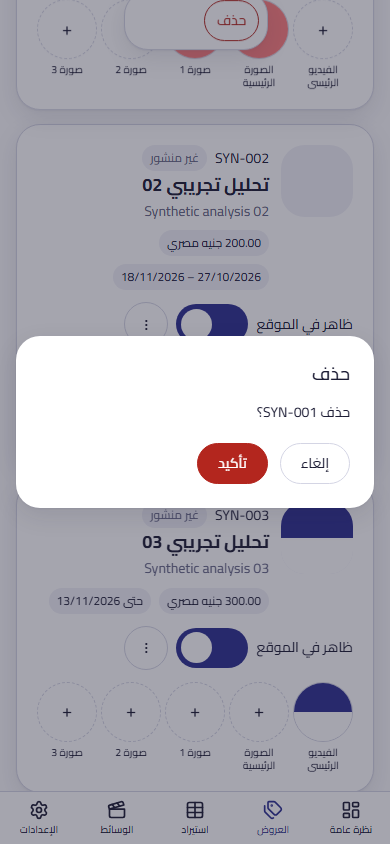
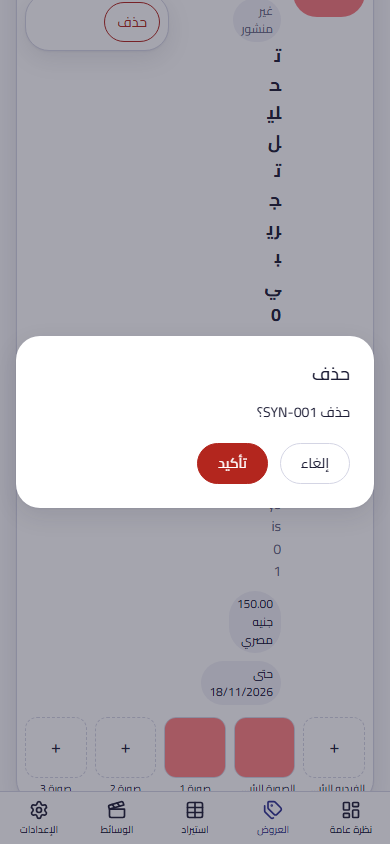
T06-F: square tiles, touch controls, header alignment and evidence

diff --git a/src/components/campaign-offer-list.tsx b/src/components/campaign-offer-list.tsx
@@ -221,7 +221,7 @@ export function CampaignOfferList({
               className="nel-leave"
             >
               <div
-                className={`nel-leave-inner ${cardClass} flex min-w-0 flex-col gap-3 border border-border p-3 motion-safe:transition-transform motion-safe:hover:-translate-y-0.5 sm:p-5`}
+                className={`nel-leave-inner ${cardClass} flex min-w-0 flex-col gap-3 border border-border !p-2 motion-safe:transition-transform motion-safe:hover:-translate-y-0.5 sm:!p-5`}
               >
                 <div className="flex min-w-0 flex-wrap items-start gap-3">
                   <div className="flex size-[4.5rem] shrink-0 items-center justify-center overflow-hidden rounded-card bg-primary-soft md:size-24">
@@ -315,7 +315,7 @@ export function CampaignOfferList({
                     </div>
                   </div>
                 </div>
-                <ul className="grid min-w-0 grid-cols-5 gap-1">
+                <ul className="grid min-w-0 grid-cols-[repeat(5,minmax(0,5.5rem))] justify-start gap-2">
                   {slotOrder.map((slot) => {
                     const picture = row.pictures.find((entry) => entry.slot === slot) ?? null;
                     const present = picture !== null;
@@ -330,21 +330,23 @@ export function CampaignOfferList({
                       >
                         <div className="nel-leave-inner flex min-w-0 flex-col gap-1">
                           {present ? (
-                            <div data-tile className="nel-tile relative aspect-square overflow-hidden rounded-button border border-border">
-                              {picture?.video && picture.previewUrl ? (
-                                <video
-                                  className="nel-arrive size-full object-cover"
-                                  src={`${picture.previewUrl}#t=0.1`}
-                                  muted
-                                  playsInline
-                                  preload="metadata"
-                                />
-                              ) : (
-                                // eslint-disable-next-line @next/next/no-img-element
-                                <img src={picture?.previewUrl} alt="" className="nel-arrive size-full object-cover" />
-                              )}
+                            <div className="nel-tile relative">
+                              <div data-tile className="aspect-square overflow-hidden rounded-xl border border-border">
+                                {picture?.video && picture.previewUrl ? (
+                                  <video
+                                    className="nel-arrive size-full object-cover"
+                                    src={`${picture.previewUrl}#t=0.1`}
+                                    muted
+                                    playsInline
+                                    preload="metadata"
+                                  />
+                                ) : (
+                                  // eslint-disable-next-line @next/next/no-img-element
+                                  <img src={picture?.previewUrl} alt="" className="nel-arrive size-full object-cover" />
+                                )}
+                              </div>
                               <div className="nel-tile-actions absolute inset-0 flex flex-col items-center justify-center gap-1 bg-dark/70 p-0.5">
-                                <a className={`text-center text-[0.65rem] font-bold text-surface ${focusRing}`} href={href}>
+                                <a className={`text-center text-[0.65rem] font-bold text-primary ${focusRing}`} href={href}>
                                   {messages.operator.slotReplace}
                                 </a>
                                 <button
@@ -367,12 +369,12 @@ export function CampaignOfferList({
                               data-tile
                               href={href}
                               aria-label={messages.operator.slotAdd}
-                              className={`flex aspect-square items-center justify-center rounded-button border border-dashed border-border text-lg ${focusRing}`}
+                              className={`flex aspect-square items-center justify-center rounded-xl border border-dashed border-border text-lg ${focusRing}`}
                             >
                               +
                             </a>
                           )}
-                          <p className="break-words text-center text-[0.65rem] leading-tight">{name}</p>
+                          <p className="truncate text-center text-[0.65rem] leading-tight">{name}</p>
                         </div>
                       </li>
                     );

diff --git a/e2e/dashboard-7-designer.spec.ts b/e2e/dashboard-7-designer.spec.ts
@@ -1,8 +1,8 @@
-import fs from "node:fs";
 import path from "node:path";
-import { expect, test as spec, type Page } from "@playwright/test";
+import { expect, test as spec, type Browser, type Page } from "@playwright/test";
 import { operatorPath, type Locale } from "../src/i18n/config";
 import { formatCount } from "../src/lib/format-values";
+import { saveShot } from "./support/shot";
 
 const evidence = path.join("docs", "evidence", "T06");
 
@@ -14,8 +14,7 @@ const tileNames = {
 async function shot(page: Page, name: string) {
   await expect(page.locator("h1")).toBeVisible();
   await expect(page.locator(".nel-shimmer")).toHaveCount(0);
-  fs.mkdirSync(evidence, { recursive: true });
-  await page.screenshot({ path: path.join(evidence, name) });
+  await saveShot(page, path.join(evidence, name));
 }
 
 async function switchSize(page: Page) {
@@ -36,7 +35,15 @@ async function errorColour(page: Page) {
   });
 }
 
-spec("card v3, red removals, centred dialogs and the library", async ({ page }) => {
+async function controlStyle(page: Page) {
+  const filled = page.locator("[data-code='SYN-001'] [data-filled='yes']").first();
+  return filled.locator(".nel-tile-actions").evaluate((node) => {
+    const style = getComputedStyle(node);
+    return { opacity: style.opacity, events: style.pointerEvents };
+  });
+}
+
+spec("card v3, red removals, centred dialogs and the library", async ({ page, browser }) => {
   await page.setViewportSize({ width: 390, height: 844 });
   const publish = await page.goto(operatorPath("ar", "overview"));
   expect(publish?.ok()).toBeTruthy();
@@ -55,13 +62,19 @@ spec("card v3, red removals, centred dialogs and the library", async ({ page }) 
       const boxes = await tiles.evaluateAll((nodes) =>
         nodes.map((node) => {
           const box = node.getBoundingClientRect();
-          return { top: box.top, width: box.width };
+          const radius = Number.parseFloat(getComputedStyle(node).borderTopLeftRadius);
+          return { top: box.top, width: box.width, radius };
         }),
       );
+      console.log(`tile-width ${locale} ${width} ${boxes[0]?.width ?? 0}`);
       for (const box of boxes) {
+        expect(Math.abs(box.radius - 12)).toBeLessThanOrEqual(0.5);
+        expect(box.radius).toBeLessThanOrEqual(box.width * 0.26);
+        expect(box.width).toBeLessThanOrEqual(89);
         expect(Math.abs(box.top - boxes[0].top)).toBeLessThanOrEqual(2);
         expect(Math.abs(box.width - boxes[0].width)).toBeLessThanOrEqual(1);
       }
+      if (locale === "ar" && width === 1440) await shot(page, "dashboard-campaign-offers-ar-1440.png");
       const fits = await page.evaluate(() => document.documentElement.scrollWidth <= window.innerWidth);
       expect(fits).toBe(true);
       for (const name of tileNames[locale]) await expect(card.getByText(name, { exact: true })).toBeVisible();
@@ -161,4 +174,34 @@ spec("card v3, red removals, centred dialogs and the library", async ({ page }) 
   const settingsSwitch = await switchSize(page);
   expect(Math.abs(settingsSwitch.width - published.width)).toBeLessThanOrEqual(1);
   expect(Math.abs(settingsSwitch.height - published.height)).toBeLessThanOrEqual(1);
+
+  await page.setViewportSize({ width: 1440, height: 900 });
+  await page.goto("/en/operator/campaign-offers");
+  await page.mouse.move(0, 0);
+  const hidden = await controlStyle(page);
+  expect(hidden.opacity).toBe("0");
+  expect(hidden.events).toBe("none");
+  await assertTouchControls(browser);
 });
+
+async function assertTouchControls(browser: Browser) {
+  const touch = await browser.newContext({
+    baseURL: "http://localhost:3000",
+    storageState: "e2e/.auth/operator.json",
+    hasTouch: true,
+    isMobile: true,
+    viewport: { width: 390, height: 844 },
+  });
+  const touchPage = await touch.newPage();
+  try {
+    await touchPage.goto("/ar/operator/campaign-offers");
+    const filled = touchPage.locator("[data-code='SYN-001'] [data-filled='yes']").first();
+    const actions = filled.locator(".nel-tile-actions");
+    await expect(actions.getByRole("link", { name: "استبدال" })).toBeVisible();
+    await expect(actions.locator("[data-remove]")).toBeVisible();
+    const shown = await actions.evaluate((node) => getComputedStyle(node).opacity);
+    expect(shown).toBe("1");
+  } finally {
+    await touch.close();
+  }
+}

diff --git a/e2e/public-site.spec.ts b/e2e/public-site.spec.ts
@@ -1,6 +1,6 @@
-import fs from "node:fs";
 import path from "node:path";
 import { deflateSync } from "node:zlib";
+import { saveShot } from "./support/shot";
 import { expect, test as spec, type Browser, type Page } from "@playwright/test";
 import {
   campaignOfferPath,
@@ -628,8 +628,14 @@ async function assertFloatingHeader(page: Page, width: number, locale: Locale) {
   expect(radius).toBeGreaterThanOrEqual(box.height / 2 - 0.5);
   const inset = width >= 768 ? 24 : 12;
   expect(box.y).toBeGreaterThanOrEqual(inset - 1);
-  expect(box.x).toBeGreaterThanOrEqual(inset - 1);
-  expect(width - (box.x + box.width)).toBeGreaterThanOrEqual(inset - 1);
+  const section = await page.locator("section").first().boundingBox();
+  expect(section).toBeTruthy();
+  if (section) {
+    expect(Math.abs(box.x - section.x)).toBeLessThanOrEqual(2);
+    expect(Math.abs(box.x + box.width - (section.x + section.width))).toBeLessThanOrEqual(2);
+    const gap = section.y - (box.y + box.height);
+    expect(gap).toBeGreaterThanOrEqual(width >= 1440 ? 24 : 16);
+  }
   const top = box.y;
   await page.evaluate(() => window.scrollTo(0, 600));
   const stuck = await header.boundingBox();
@@ -678,12 +684,11 @@ spec("layout, screenshots and unpublish", async ({ page, browser }) => {
         expect(loaded).toBeGreaterThan(0);
         if (width === 320 || width === 390 || width === 1440) await assertFloatingHeader(page, width, locale);
         const evidence = path.join("docs", "evidence", "T06");
-        fs.mkdirSync(evidence, { recursive: true });
         if (locale === defaultLocale && width === 390) {
-          await page.screenshot({ path: path.join(evidence, "home-ar-390.png") });
+          await saveShot(page, path.join(evidence, "home-ar-390.png"));
         }
         if (locale === prefixedLocale && width === 1440) {
-          await page.screenshot({ path: path.join(evidence, "home-en-1440.png") });
+          await saveShot(page, path.join(evidence, "home-en-1440.png"));
         }
       }
       if (urlPath === campaignOfferPath(locale, "SYN-001")) {
@@ -698,9 +703,7 @@ spec("layout, screenshots and unpublish", async ({ page, browser }) => {
           expect((await thumb.getAttribute("aria-label")) ?? "").not.toBe("");
         }
         if (locale === defaultLocale && width === 390) {
-          const evidence = path.join("docs", "evidence", "T06");
-          fs.mkdirSync(evidence, { recursive: true });
-          await page.screenshot({ path: path.join(evidence, "campaign-offer-ar-390.png") });
+          await saveShot(page, path.join("docs", "evidence", "T06", "campaign-offer-ar-390.png"));
         }
       }
       if (urlPath === campaignOfferPath(locale, "SYN-002")) {

diff --git a/e2e/dashboard-6-controls.spec.ts b/e2e/dashboard-6-controls.spec.ts
@@ -1,5 +1,6 @@
 import fs from "node:fs";
 import path from "node:path";
+import { saveShot } from "./support/shot";
 import { expect, test as spec, type Page } from "@playwright/test";
 import { messagesFor } from "../src/i18n/config";
 import { tinyPng } from "./support/samples";
@@ -43,8 +44,7 @@ async function shot(page: Page, name: string, dir = evidenceDir) {
   await expect(page.locator("h1")).toBeVisible();
   await expect(page.locator(".nel-shimmer")).toHaveCount(0);
   const width = page.viewportSize()?.width ?? 0;
-  fs.mkdirSync(dir, { recursive: true });
-  await page.screenshot({ path: path.join(dir, name), fullPage: width >= 1024 });
+  await saveShot(page, path.join(dir, name), width >= 1024);
 }
 
 spec("operator controls, media choice and dashboard screenshots", async ({ page }) => {
@@ -247,7 +247,7 @@ spec("operator controls, media choice and dashboard screenshots", async ({ page 
     const clip = page.locator("[data-code='SYN-003']");
     const mainImage = clip.getByRole("button", { name: "Remove Main image" });
     if ((await mainImage.count()) > 0) {
-      await mainImage.locator("xpath=ancestor::*[@data-tile][1]").hover();
+      await mainImage.locator("xpath=ancestor::div[contains(@class,'nel-tile ')][1]").hover();
       await mainImage.click();
       await page.getByRole("dialog").getByRole("button", { name: "Confirm" }).click();
     }
@@ -339,7 +339,7 @@ spec("a running action shows its spinner, and reduced motion skips the leaving m
   await page.emulateMedia({ reducedMotion: "reduce" });
   await page.goto("/en/operator/campaign-offers");
   const removal = page.locator("[data-code='SYN-004']").getByRole("button", { name: "Remove Image 3", exact: true });
-  await removal.locator("xpath=ancestor::*[@data-tile][1]").hover();
+  await removal.locator("xpath=ancestor::div[contains(@class,'nel-tile ')][1]").hover();
   await expect(removal).toBeVisible();
   await removal.click();
   await page.evaluate(() => {

diff --git a/e2e/public-share.spec.ts b/e2e/public-share.spec.ts
@@ -1,5 +1,6 @@
 import fs from "node:fs";
 import path from "node:path";
+import { saveShot } from "./support/shot";
 import { expect, test as spec, type Browser, type Page } from "@playwright/test";
 import { messagesFor } from "../src/i18n/config";
 
@@ -90,7 +91,7 @@ spec("link preview, icons, video frame and gallery margin", async ({ page, brows
         }),
     );
     expect(await video.evaluate((node: HTMLVideoElement) => node.readyState)).toBeGreaterThanOrEqual(2);
-    await page.screenshot({ path: path.join(evidenceDir, "campaign-offer-video-first-frame-ar-390.png") });
+    await saveShot(page, path.join(evidenceDir, "campaign-offer-video-first-frame-ar-390.png"));
 
     const arabic = messagesFor("ar");
     await page.goto("/ar/campaign-offers/SYN-001");
@@ -98,7 +99,7 @@ spec("link preview, icons, video frame and gallery margin", async ({ page, brows
     const dialog = page.locator("dialog");
     await expect(dialog.locator("img")).toBeVisible();
     await expect.poll(async () => (await dialog.locator("img").boundingBox())?.width ?? 0).toBeGreaterThan(200);
-    await page.screenshot({ path: path.join(evidenceDir, "gallery-preview-ar-390.png") });
+    await saveShot(page, path.join(evidenceDir, "gallery-preview-ar-390.png"));
     await page.mouse.click(8, 8);
     await expect(dialog).toBeHidden();
 
@@ -115,7 +116,7 @@ spec("link preview, icons, video frame and gallery margin", async ({ page, brows
       expect(box.x + box.width).toBeLessThanOrEqual(1440 - 63);
       expect(box.y + box.height).toBeLessThanOrEqual(900 - 23);
     }
-    await page.screenshot({ path: path.join(evidenceDir, "gallery-preview-en-1440.png") });
+    await saveShot(page, path.join(evidenceDir, "gallery-preview-en-1440.png"));
     await page.mouse.click(8, 8);
     await expect(page.locator("dialog")).toBeHidden();
     expect(arabic.a11y.closePreview.length).toBeGreaterThan(0);

diff --git a/e2e/dashboard-2-import.spec.ts b/e2e/dashboard-2-import.spec.ts
@@ -1,6 +1,7 @@
 import { createHash } from "node:crypto";
 import fs from "node:fs";
 import path from "node:path";
+import { saveShot } from "./support/shot";
 import { expect, test as spec, type Page } from "@playwright/test";
 import { workbookBytes, type Cell } from "./support/sheet";
 
@@ -230,7 +231,7 @@ spec("chosen sheet, drop, error summary and a re-read", async ({ page }) => {
   const sizeText = (await page.locator("[data-byte-size]").innerText()).replace(/[\d\s.,\u0660-\u0669]/g, "");
   expect(sizeText.length).toBeGreaterThan(0);
   await expect(page.locator("[data-preview-summary]")).toBeVisible();
-  await page.screenshot({ path: path.join(evidenceDir, "import-selected-ar-390.png") });
+  await saveShot(page, path.join(evidenceDir, "import-selected-ar-390.png"));
   const joined = posted.join("\n");
   expect(joined.includes("sheet.xlsx"), joined.slice(0, 500)).toBe(true);
   expect(joined.includes("chosen-sheet.xlsx"), joined.slice(0, 500)).toBe(false);
@@ -247,7 +248,7 @@ spec("chosen sheet, drop, error summary and a re-read", async ({ page }) => {
   await expect(page.locator("[data-preview-summary]")).toContainText("fix them in Excel, then choose the sheet again.");
   await expect(page.getByRole("columnheader", { name: "Row · Column" })).toBeVisible();
   await expect(page.getByRole("button", { name: "Confirm import" })).toBeDisabled();
-  await page.screenshot({ path: path.join(evidenceDir, "import-errors-en-1440.png"), fullPage: true });
+  await saveShot(page, path.join(evidenceDir, "import-errors-en-1440.png"), true);
   const before = await page.locator("[data-preview-summary]").innerText();
   await choose(page, await workbookBytes([line("SYN-001", 1, 150, null, end, false)]), "edited.xlsx");
   await expect(page.locator("[data-preview-summary]")).not.toHaveText(before);

diff --git a/src/components/public/header.tsx b/src/components/public/header.tsx
@@ -15,7 +15,7 @@ const focusRing =
 
 export function Header({ subtitle, homeHref, siteName, markAlt, labSite }: HeaderProps) {
   return (
-    <header className="sticky top-3 z-30 mx-3 flex items-center gap-2 rounded-full border border-border bg-surface px-3 py-2 shadow-card md:top-6 md:mx-6 md:gap-3 md:px-4">
+    <header className="sticky top-3 z-30 mx-auto mt-3 mb-4 flex w-full max-w-7xl items-center gap-2 rounded-full border border-border bg-surface px-3 py-2 shadow-card md:top-6 md:mt-6 md:mb-6 md:gap-3 md:px-4">
       <Link
         href={homeHref}
         className={`flex h-12 w-12 shrink-0 items-center justify-center overflow-hidden rounded-button bg-surface ${focusRing}`}

diff --git a/src/app/globals.css b/src/app/globals.css
@@ -205,11 +205,24 @@ dialog.nel-dialog {
 
 .nel-tile-actions {
   opacity: 0;
+  pointer-events: none;
 }
 
-.nel-tile:hover .nel-tile-actions,
-.nel-tile:focus-within .nel-tile-actions {
-  opacity: 1;
+@media (hover: hover) {
+  .nel-tile:hover .nel-tile-actions,
+  .nel-tile:focus-within .nel-tile-actions {
+    opacity: 1;
+    pointer-events: auto;
+  }
+}
+
+@media (hover: none) {
+  .nel-tile-actions {
+    position: static;
+    opacity: 1;
+    pointer-events: auto;
+    background: transparent;
+  }
 }
 
 dialog.nel-dialog::backdrop {

diff --git a/e2e/support/shot.ts b/e2e/support/shot.ts
@@ -1,0 +1,9 @@
+import fs from "node:fs";
+import path from "node:path";
+import type { Page } from "@playwright/test";
+
+export async function saveShot(page: Page, filePath: string, fullPage = false) {
+  await page.waitForFunction(() => document.getAnimations().length === 0);
+  fs.mkdirSync(path.dirname(filePath), { recursive: true });
+  await page.screenshot({ path: filePath, fullPage });
+}
